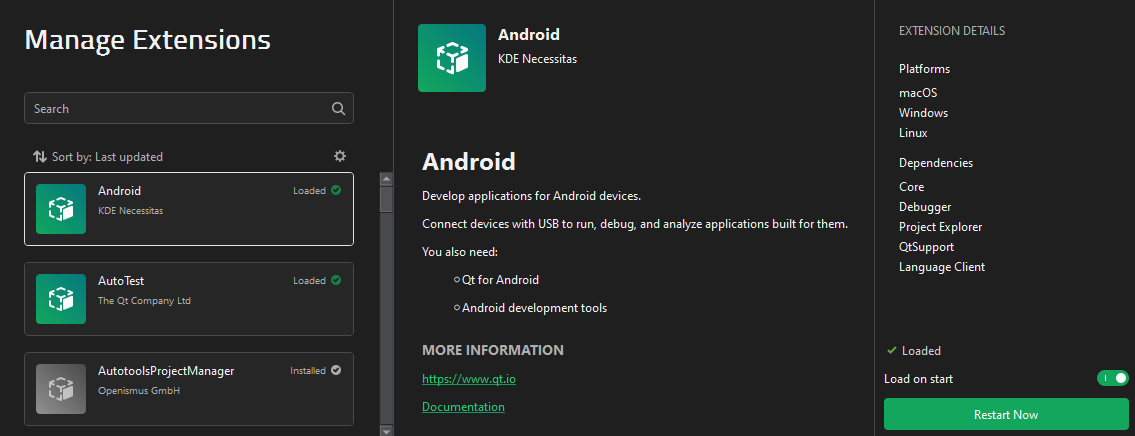
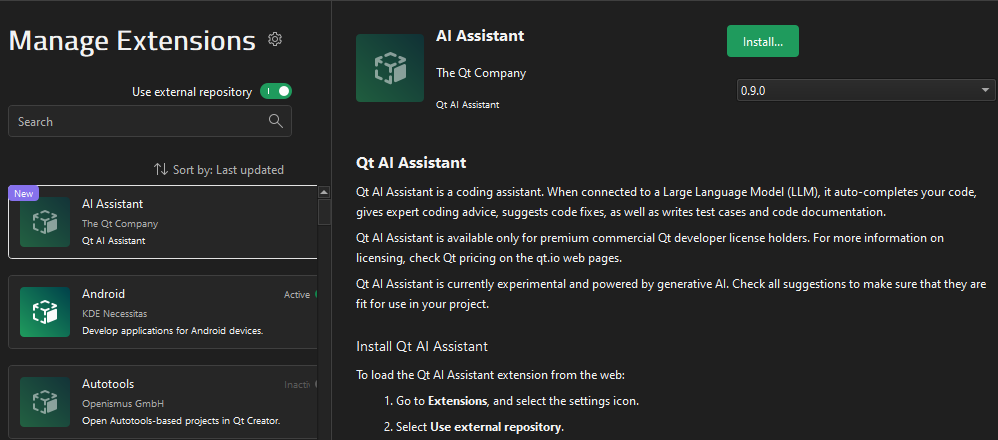
Doc: Update info about the Extensions mode
Task-number: QTCREATORBUG-32575

diff --git a/dist/changelog/changes-17.0.0.md b/dist/changelog/changes-17.0.0.md
@@ -22,15 +22,16 @@ General
 * Added a `Courses` tab to `Welcome` mode
 * Added tab completion to the locator
 * Extensions
-    * Moved the default plugin registry to
+    * Moved the default extension registry to
       https://github.com/qt-creator/extension-registry
       (submissions not open to the public yet)
-    * Added the option to configure multiple plugin registries in
+    * Added the option to configure multiple extension registries in
       `Preferences > Extensions > Browser`
     * Added the dependencies and supported platforms of extensions that are not
       installed to their details
     * Added version selectors for extensions that are not installed
     * Added support for dropping extension archives onto `Extensions` mode
+  ([Documentation](https://doc-snapshots.qt.io/qtcreator-17.0/creator-how-to-install-extensions.html))
 
 Editing
 -------
